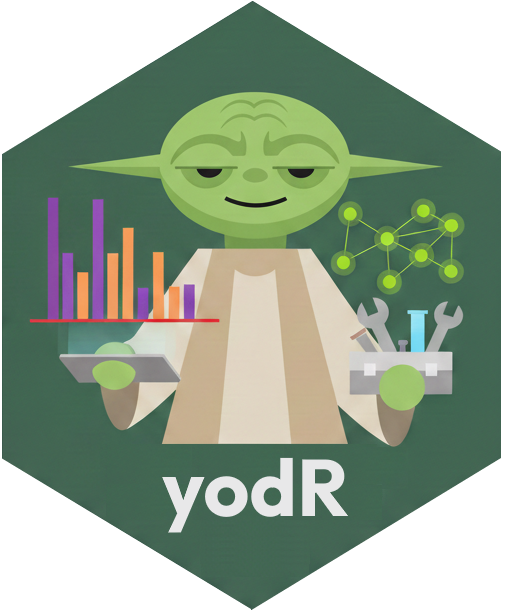
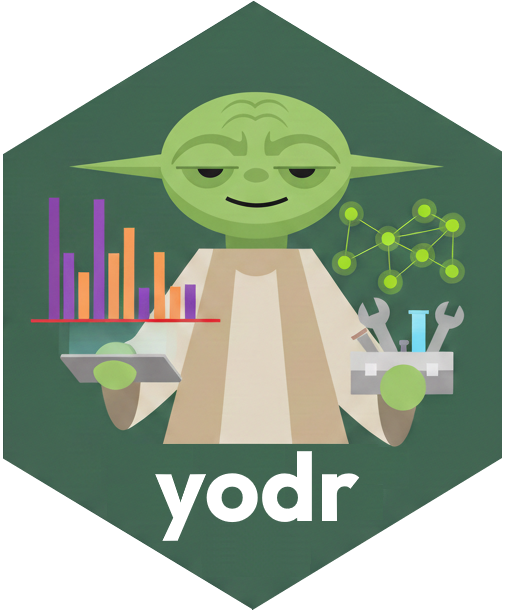
Rename package to {yodr} all lower case
Even less keys needing to be typed if all lower case

diff --git a/README.md b/README.md
@@ -1,13 +1,12 @@
-# yodR <a href="https://lcpilling.github.io/yodR/"><img src="man/figures/yodR.png" align="right" width="150" /></a>
+# yodr <a href="https://lcpilling.github.io/yodr/"><img src="man/figures/yodr.png" align="right" width="175" /></a>
 
 <!-- badges: start -->
-[![](https://img.shields.io/badge/version-1.0.0-informational.svg)](https://github.com/lcpilling/yodR)
-[![](https://img.shields.io/github/last-commit/lcpilling/yodR.svg)](https://github.com/lcpilling/yodR/commits/master)
+[![](https://img.shields.io/badge/version-1.0.0-informational.svg)](https://github.com/lcpilling/yodr)
+[![](https://img.shields.io/github/last-commit/lcpilling/yodr.svg)](https://github.com/lcpilling/yodr/commits/master)
 [![](https://img.shields.io/badge/lifecycle-experimental-orange)](https://www.tidyverse.org/lifecycle/#experimental)
-[![DOI](https://zenodo.org/badge/590063045.svg)](https://zenodo.org/badge/latestdoi/590063045)
 <!-- badges: end -->
 
-yodR (phonetically: "Yoda") is a small R package with tools for epidemiology and hypothesis testing. 
+yodr (phonetically: "Yoda") is a small R package with tools for epidemiology and hypothesis testing. 
 
 > "Size matters not. Look at me. Judge me by my -log10 p-value, do you?"
 
@@ -25,7 +24,7 @@ Note: v1.0.0 is functionally identical to [lukesRlib v0.2.13](https://github.com
 To install the development version from GitHub use the `remotes` package:
 
 ```r
-remotes::install_github("lcpilling/yodR")
+remotes::install_github("lcpilling/yodr")
 ```
 
 
@@ -36,7 +35,7 @@ remotes::install_github("lcpilling/yodR")
 
 Motivation: by default the [{broom}](https://broom.tidymodels.org/) package uses `confint()` to estimate CIs. For GLMs this calculates CIs via the profile likelihood method. When using large datasets this takes a long time and does not meaningfully alter the CIs compared to calculating using 1.96*SE
 
-`tidy()` does a few other nice things: hides the intercept by default, automatically detects logistic/CoxPH/CRR models and exponentiates the estimates, and if p==0 returns the 'extreme p' as a string. Other options include -log10 p-values. See the [`tidy()` Wiki](https://github.com/lcpilling/lukesRlib/wiki/tidy()) page for more details 
+`tidy()` does a few other nice things: hides the intercept by default, automatically detects logistic/CoxPH/CRR models and exponentiates the estimates, and if p==0 returns the 'extreme p' as a string. Other options include -log10 p-values. 
 
 #### Examples
 
@@ -70,14 +69,14 @@ tidy(fit_coxph)
 Automatically identified the input as from a coxph model and exponentiated estimate/CIs. Also provided N and Nevents. Also, tidied "as.factor()" variable names. If `haven::as_factor()` is used then any labels are shown correctly.
 
 
-### phe()
+### phewas()
 
-`phe()` (phonetically: "fee") makes PheWAS in R easy and fast. It gets the tidy model output for categorical or continuous exposures, from linear, logistic, or CoxPH models. Output includes N and N cases, outcome, and model info. User can provide multiples exposures and outcomes. 
+`phewas()` (phonetically: "fee-was") makes PheWAS in R easy and fast. It gets the tidy model output for categorical or continuous exposures, from linear, logistic, or CoxPH models. Output includes N and N cases, outcome, and model info. User can provide multiples exposures and outcomes. 
 
 #### Example: Categorical exposure in logistic regression
 
 ```r
-phe(x="smoking_status", y="chd", z="+age", d=ukb, model="logistic", af=TRUE)
+phewas(x="smoking_status", y="chd", z="+age", d=ukb, model="logistic", af=TRUE)
 #> A tibble: 3 x 12
 #>   outcome exposure               estimate std.error statistic p.value conf.low conf.high     n n_cases model   
 #>   <chr>   <chr>                     <dbl>     <dbl>     <dbl>   <dbl>    <dbl>     <dbl> <dbl>   <dbl> <chr>   
@@ -91,7 +90,7 @@ The `estimate` is the Odds Ratio from a logistic regression model, and `n` and `
 #### Example: Multiple exposures on single outcome (i.e., a "PheWAS")
 ```r
 x_vars = c("bmi","ldl","sbp")
-phe(x=x_vars, y="chd", z="+age+sex", d=ukb, model="logistic")
+phewas(x=x_vars, y="chd", z="+age+sex", d=ukb, model="logistic")
 #> # A tibble: 3 x 11
 #>   outcome exposure estimate std.error statistic p.value conf.low conf.high     n n_cases model   
 #>   <chr>   <chr>       <dbl>     <dbl>     <dbl>   <dbl>    <dbl>     <dbl> <int>   <int> <chr>   
@@ -105,18 +104,18 @@ Multiple exposures and outcomes can be provided simultaneously. Here, the exposu
 #### Example: stratified analyses
 ```r
 res_all     = ukb |> 
-                phe(x=x_vars, y="chd", z="+age+sex", model="logistic", note="All")
+                phewas(x=x_vars, y="chd", z="+age+sex", model="logistic", note="All")
 res_males   = ukb |> 
                 filter(sex=="Male") |> 
-                phe(x=x_vars, y="chd", z="+age", model="logistic", note="Males")
+                phewas(x=x_vars, y="chd", z="+age", model="logistic", note="Males")
 res_females = ukb |> 
                 filter(sex=="Female") |> 
-                phe(x=x_vars, y="chd", z="+age", model="logistic", note="Females")
+                phewas(x=x_vars, y="chd", z="+age", model="logistic", note="Females")
 
 res = list_rbind(list(res_all, res_males, res_females))
 ```
 
-Data is first argument. `phe()` can be on the right-side of other `dplyr` functions. Stratified models can be therefore easily performed. The `note` argument means output is labelled and can be combined into a single data frame easily.
+Data is first argument. `phewas()` can be on the right-side of other `dplyr` functions. Stratified models can be therefore easily performed. The `note` argument means output is labelled and can be combined into a single data frame easily.
 
 
 ## Data Transformation
@@ -171,7 +170,7 @@ get_se(lci, uci)
 #>  [1] 0.05102041
 
 # custom denominator e.g., if CIs correspond to a p-value 5*10-8
-get_se(lci, uci, denominator=lukesRlib::get_z(5e-8)*2)   
+get_se(lci, uci, denominator=yodr::get_z(5e-8)*2)   
 #>  [1] 0.01834421
 ```
 
